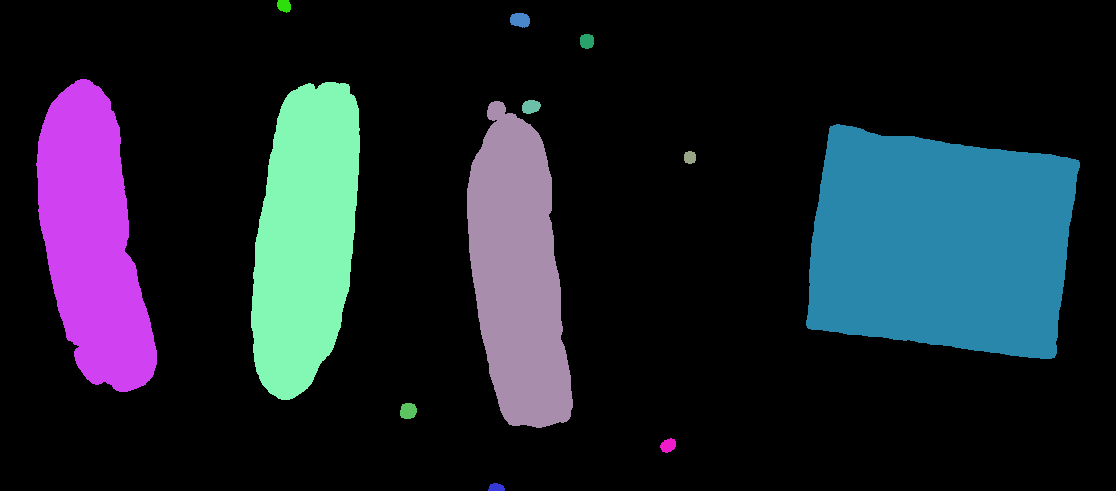
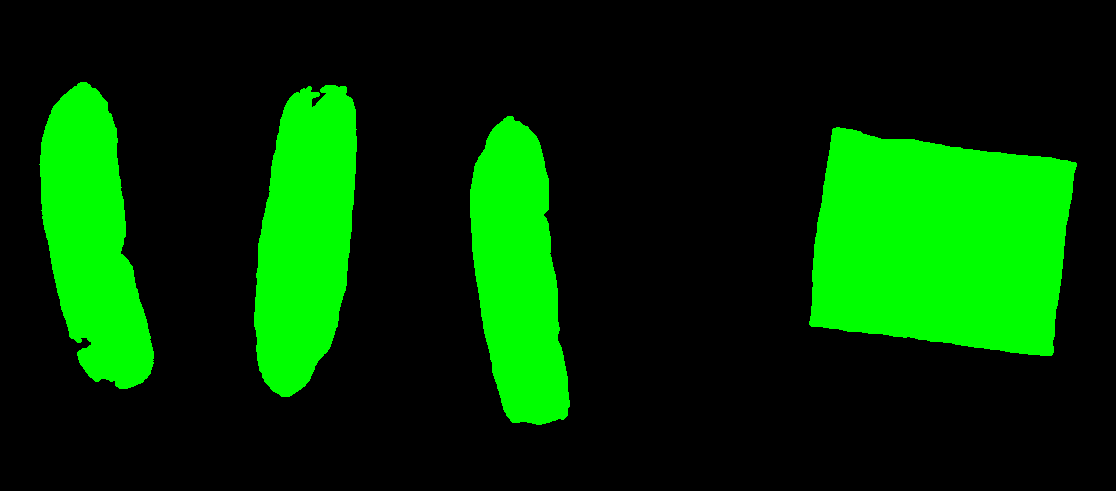
hmm

diff --git a/leaves.py b/leaves.py
@@ -23,19 +23,31 @@ edges = cv2.Canny(image=img_blur, threshold1=100, threshold2=200) # Canny Edge D
 cv2.imshow('Canny Edge Detection', edges)
 cv2.waitKey(0)
 
-kernel = cv2.getStructuringElement(cv2.MORPH_ELLIPSE,(9,9))
+kernel = cv2.getStructuringElement(cv2.MORPH_ELLIPSE,(3, 3))
 dilated = cv2.dilate(edges, kernel)
 contours, hierarchy = cv2.findContours(dilated.copy(), cv2.RETR_EXTERNAL, cv2.CHAIN_APPROX_SIMPLE)
 
+# grab every contour that has a parent contour, and put it in a list called hole_contours
+hole_contours = [contour for contour in sorted(contours, key=cv2.contourArea, reverse=True) if cv2.contourArea(contour) < 1000]
+
+# Sort the contours in descending order based on their area and only keep the ones larger than 100 pixels
+leaf_contours = [contour for contour in sorted(contours, key=cv2.contourArea, reverse=True) if cv2.contourArea(contour) > 1000]
+
 # Create a blank image to draw the filled contours onto
 filled = np.zeros_like(img)
+hole_filled = np.zeros_like(img)
 
-# Iterate over the contours and fill them with red color
-for contour in contours:
-    cv2.fillPoly(filled, pts=[contour], color=(randint(0, 255), randint(0, 255), randint(0, 255)))
-
+# Iterate over the contours and fill them with green
+for contour in leaf_contours:
+    cv2.fillPoly(filled, pts=[contour], color=(0, 255, 0))
+# Iterate over the hole contours and fill them with red
+print("hole_contours: ", hole_contours)
+for contour in hole_contours:
+    cv2.fillPoly(hole_filled, pts=[contour], color=(0, 0, 255))
 # Display the result
 cv2.imshow('Filled Contours', filled)
+cv2.waitKey(0)
+cv2.imshow('Hole Filled Contours', hole_filled)
 cv2.waitKey(0)
 # save the image to output.png
 cv2.imwrite('output.png', filled)
